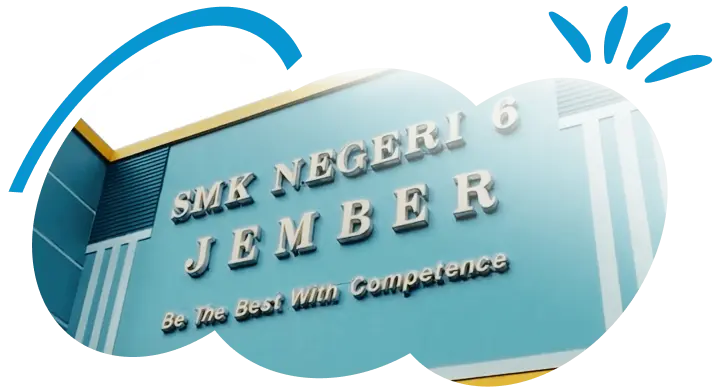
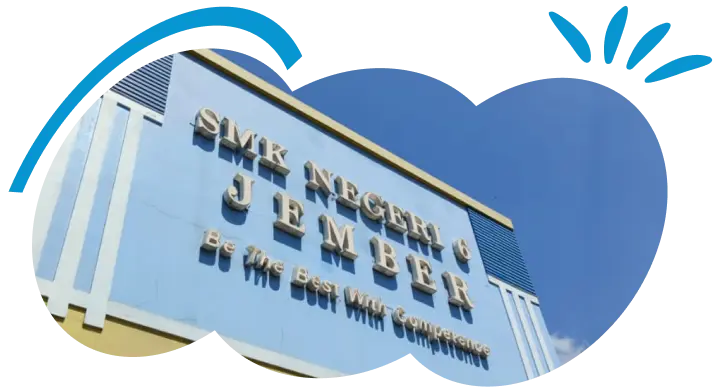
feat: scrollbar thin

diff --git a/app/page.tsx b/app/page.tsx
@@ -100,7 +100,7 @@ export default function Home() {
 
         <LogoCarousel />
 
-        <div className="relative overflow-hidden bg-primary/5 w-full">
+        <div className="relative overflow-hidden bg-white w-full">
           {/* <div className="absolute top-12 left-[1/2] w-[180px] sm:w-[240px] md:w-[280px] h-auto opacity-25 pointer-events-none select-none z-0">
           <Image
             src="/about-floating-triangle.webp"
@@ -185,45 +185,66 @@ export default function Home() {
             </div>
           </main>
         </div>
-        <div id="virtual-tour" className="w-full flex flex-col items-center bg-white pt-16 scroll-mt-16">
-          <div className="text-center px-6 max-w-4xl mx-auto mb-12 relative z-10">
-            <div className="inline-flex items-center justify-center px-5 py-2 bg-primary/10 text-primary text-[13px] font-bold rounded-full mb-5">
-              Virtual Tour
-            </div>
-            <h2 className="text-3xl sm:text-5xl lg:text-[42px] font-black text-slate-900 leading-tight">
-              Jelajahi Sekolah Kami
-            </h2>
-            <p className="mt-6 text-base sm:text-lg text-slate-500 max-w-2xl mx-auto leading-relaxed">
-              Nikmati pengalaman berkeliling lingkungan sekolah secara virtual melalui tampilan 360°. Kenali setiap sudut sekolah, fasilitas, dan area pembelajaran dengan mudah dari mana saja.
-            </p>
-          </div>
-        </div>
 
-        <div className="relative overflow-hidden">
-          <main className="relative z-10 w-full max-w-7xl mx-auto px-6 lg:px-8 py-16 md:py-24 bg-gray-300 h-[600px]">
-            {/* <h1 className="h-full text-center font-black text-5xl">VIRTUAL 360°</h1> */}
-          </main>
+        <div className="bg-primary/6 py-16">
+          <div id="virtual-tour" className="w-full flex flex-col items-center scroll-mt-16">
+            <div className="text-center px-6 max-w-4xl mx-auto mb-12 relative z-10">
+              <div className="inline-flex items-center justify-center px-5 py-2 bg-primary/10 text-primary text-[13px] font-bold rounded-full mb-5">
+                Virtual Tour
+              </div>
+              <h2 className="text-3xl sm:text-5xl lg:text-[42px] font-black text-slate-900 leading-tight">
+                Jelajahi Sekolah Kami
+              </h2>
+              <p className="mt-6 text-base sm:text-lg text-slate-500 max-w-2xl mx-auto leading-relaxed">
+                Nikmati pengalaman berkeliling lingkungan sekolah secara virtual melalui tampilan 360°. Kenali setiap sudut sekolah, fasilitas, dan area pembelajaran dengan mudah dari mana saja.
+              </p>
+            </div>
+          </div>
+
+          <div className="relative overflow-hidden">
+            <main className="relative z-10 w-full max-w-7xl mx-auto px-6 lg:px-8 py-16 md:py-24 bg-gray-300 h-[600px]">
+              {/* <h1 className="h-full text-center font-black text-5xl">VIRTUAL 360°</h1> */}
+            </main>
+          </div>
         </div>
 
         <div id="jurusan" className="w-full flex flex-col items-center bg-white pt-16 scroll-mt-16">
           <div className="text-center px-6 max-w-4xl mx-auto mb-12 relative z-10">
             <div className="inline-flex items-center justify-center px-5 py-2 bg-primary/10 text-primary text-[13px] font-bold rounded-full mb-5">
-              Jurusan
+              Program Keahlian
             </div>
             <h2 className="text-3xl sm:text-5xl lg:text-[42px] font-black text-slate-900 leading-tight">
-              Jelajahi Jurusan Kami
+              Jurusan & Unggulan
             </h2>
             <p className="mt-6 text-base sm:text-lg text-slate-500 max-w-2xl mx-auto leading-relaxed">
-              Apa aja dah di sini isinya, lorem aja kali ya? lorem ipsum dolor sit, amet consectetur adipisicing elit. Neque odio rerum, minus praesentium quisquam aliquid? Tempore, ad ratione! Vitae nobis quae at nihil deleniti architecto autem cum fugit a exercitationem!
+              Temukan program keahlian unggulan di SMKN 6 Jember yang dirancang untuk membekali siswa dengan kompetensi, keterampilan, dan pengalaman sesuai kebutuhan dunia kerja maupun dunia industri.
             </p>
           </div>
         </div>
         <JurusanSection />
         <JurusanCarousel />
 
-        <div id="industri" className="relative overflow-hidden">
-          <main className="relative z-10 w-full max-w-7xl mx-auto px-6 lg:px-8 py-16 md:py-24 bg-gray-300 h-[700px]">
-          </main>
+        <div className="bg-white py-16">
+          <div id="industri" className="w-full flex flex-col items-center scroll-mt-16">
+            <div className="text-center px-6 max-w-4xl mx-auto mb-12 relative z-10">
+              <div className="inline-flex items-center justify-center px-5 py-2 bg-primary/10 text-primary text-[13px] font-bold rounded-full mb-5">
+                Kemitraan Industri
+              </div>
+              <h2 className="text-3xl sm:text-5xl lg:text-[42px] font-black text-slate-900 leading-tight">
+                Mitra Industri <br />
+                <span className="text-primary">SMK NEGERI 6 JEMBER</span>
+              </h2>
+              <p className="mt-6 text-base sm:text-lg text-slate-500 max-w-2xl mx-auto leading-relaxed">
+                SMK Negeri 6 Jember menjalin kerja sama dengan berbagai dunia usaha dan dunia industri sebagai mitra dalam pembelajaran, Praktik Kerja Lapangan (PKL), sertifikasi kompetensi, dan penyerapan lulusan.
+              </p>
+            </div>
+          </div>
+
+          <div className="relative overflow-hidden">
+            <main className="relative z-10 w-full max-w-7xl mx-auto px-6 lg:px-8 py-16 md:py-24 bg-gray-300 h-[600px]">
+              {/* <h1 className="h-full text-center font-black text-5xl">VIRTUAL 360°</h1> */}
+            </main>
+          </div>
         </div>
 
         <div id="ppdb" className="relative overflow-hidden">

diff --git a/app/components/JurusanCarousel.tsx b/app/components/JurusanCarousel.tsx
@@ -9,31 +9,39 @@ export default function JurusanCarousel() {
     { id: 3, src: "/ak.webp", alt: "Akutansi" },
     { id: 4, src: "/mp.webp", alt: "Manajemen Perkantoran" },
     { id: 5, src: "/dkv.webp", alt: "Desain Komunikasi Visual" },
-    { id: 6, src: "/kkbt.webp", alt: "Kriya Kreatif Batik Dan Tekstil" }
+    { id: 6, src: "/kkbt.webp", alt: "Kriya Kreatif Batik Dan Tekstil" },
   ];
 
-  // Duplicate the list to make a seamless infinite loop in the CSS marquee
-  const marqueeLogos = [...logos, ...logos];
+  // Repeat logos enough times within each track to cover ultra-wide viewports / zoom-out
+  const repeatedLogos = [...logos, ...logos, ...logos];
+
+  const renderTrack = (keyPrefix: string) => (
+    <div className="flex shrink-0 gap-12 sm:gap-16 items-center py-4">
+      {repeatedLogos.map((logo, idx) => (
+        <div
+          key={`${keyPrefix}-${idx}`}
+          className="relative flex-shrink-0 h-16 sm:h-20 cursor-pointer transition-all duration-300 hover:scale-150 hover:-translate-y-1 active:scale-95 group/item flex items-center justify-center px-2"
+        >
+          <Image
+            src={logo.src}
+            alt={logo.alt}
+            width={200}
+            height={80}
+            className="h-12 sm:h-16 w-auto object-contain group-hover/item:rotate-2 transition-transform duration-300"
+          />
+        </div>
+      ))}
+    </div>
+  );
 
   return (
-    <section className="w-full bg-primary/6 dark:bg-zinc-900 overflow-hidden transition-colors duration-300 ">
+    <section className="w-full bg-primary/10 dark:bg-zinc-900 overflow-hidden transition-colors duration-300">
       <div className="relative flex w-full overflow-x-hidden group/marquee">
-        {/* Infinite Marquee Track */}
-        <div className="flex gap-12 sm:gap-16 animate-marquee whitespace-nowrap py-4 group-hover/marquee:[animation-play-state:paused]">
-          {marqueeLogos.map((logo, idx) => (
-            <div
-              key={`${logo.id}-${idx}`}
-              className="relative flex-shrink-0 h-16 sm:h-20 cursor-pointer transition-all duration-300 hover:scale-150 hover:-translate-y-1 active:scale-95 group/item flex items-center justify-center px-2"
-            >
-              <Image
-                src={logo.src}
-                alt={logo.alt}
-                width={200}
-                height={80}
-                className="h-12 sm:h-16 w-auto object-contain group-hover/item:rotate-2 transition-transform duration-300"
-              />
-            </div>
-          ))}
+        <div className="flex animate-marquee group-hover/marquee:[animation-play-state:paused]">
+          {renderTrack("a")}
+          {renderTrack("b")}
+          {renderTrack("c")}
+          {renderTrack("d")}
         </div>
       </div>
     </section>

diff --git a/app/components/LogoCarousel.tsx b/app/components/LogoCarousel.tsx
@@ -16,28 +16,36 @@ export default function LogoCarousel() {
     { id: 10, src: "/studio6.webp", alt: "Studo 6" },
   ];
 
-  // Duplicate the list to make a seamless infinite loop in the CSS marquee
-  const marqueeLogos = [...logos, ...logos];
+  // Repeat logos enough times within each track to cover ultra-wide viewports / zoom-out
+  const repeatedLogos = [...logos, ...logos, ...logos];
+
+  const renderTrack = (keyPrefix: string) => (
+    <div className="flex shrink-0 gap-12 sm:gap-16 items-center py-4">
+      {repeatedLogos.map((logo, idx) => (
+        <div
+          key={`${keyPrefix}-${idx}`}
+          className="relative flex-shrink-0 h-16 sm:h-20 cursor-pointer transition-all duration-300 hover:scale-150 hover:-translate-y-1 active:scale-95 group/item flex items-center justify-center px-2"
+        >
+          <Image
+            src={logo.src}
+            alt={logo.alt}
+            width={200}
+            height={80}
+            className="h-12 sm:h-16 w-auto object-contain group-hover/item:rotate-2 transition-transform duration-300"
+          />
+        </div>
+      ))}
+    </div>
+  );
 
   return (
-    <section className="w-full bg-primary/6 dark:bg-zinc-900 overflow-hidden transition-colors duration-300 ">
+    <section className="w-full bg-primary/6 dark:bg-zinc-900 overflow-hidden transition-colors duration-300">
       <div className="relative flex w-full overflow-x-hidden group/marquee">
-        {/* Infinite Marquee Track */}
-        <div className="flex gap-12 sm:gap-16 animate-marquee whitespace-nowrap py-4 group-hover/marquee:[animation-play-state:paused]">
-          {marqueeLogos.map((logo, idx) => (
-            <div
-              key={`${logo.id}-${idx}`}
-              className="relative flex-shrink-0 h-16 sm:h-20 cursor-pointer transition-all duration-300 hover:scale-150 hover:-translate-y-1 active:scale-95 group/item flex items-center justify-center px-2"
-            >
-              <Image
-                src={logo.src}
-                alt={logo.alt}
-                width={200}
-                height={80}
-                className="h-12 sm:h-16 w-auto object-contain group-hover/item:rotate-2 transition-transform duration-300"
-              />
-            </div>
-          ))}
+        <div className="flex animate-marquee group-hover/marquee:[animation-play-state:paused]">
+          {renderTrack("a")}
+          {renderTrack("b")}
+          {renderTrack("c")}
+          {renderTrack("d")}
         </div>
       </div>
     </section>

diff --git a/app/globals.css b/app/globals.css
@@ -57,3 +57,28 @@ body {
   color: var(--foreground);
   font-family: var(--font-poppins), sans-serif;
 }
+
+/* Thin scrollbar — modern browsers (Firefox, Chrome 121+) */
+* {
+  scrollbar-width: thin;
+  scrollbar-color: #c4c4c4 transparent;
+}
+
+/* Thin scrollbar — WebKit (Chrome, Safari, Edge) */
+*::-webkit-scrollbar {
+  width: 6px;
+  height: 6px;
+}
+
+*::-webkit-scrollbar-track {
+  background: transparent;
+}
+
+*::-webkit-scrollbar-thumb {
+  background-color: #c4c4c4;
+  border-radius: 9999px;
+}
+
+*::-webkit-scrollbar-thumb:hover {
+  background-color: #a0a0a0;
+}